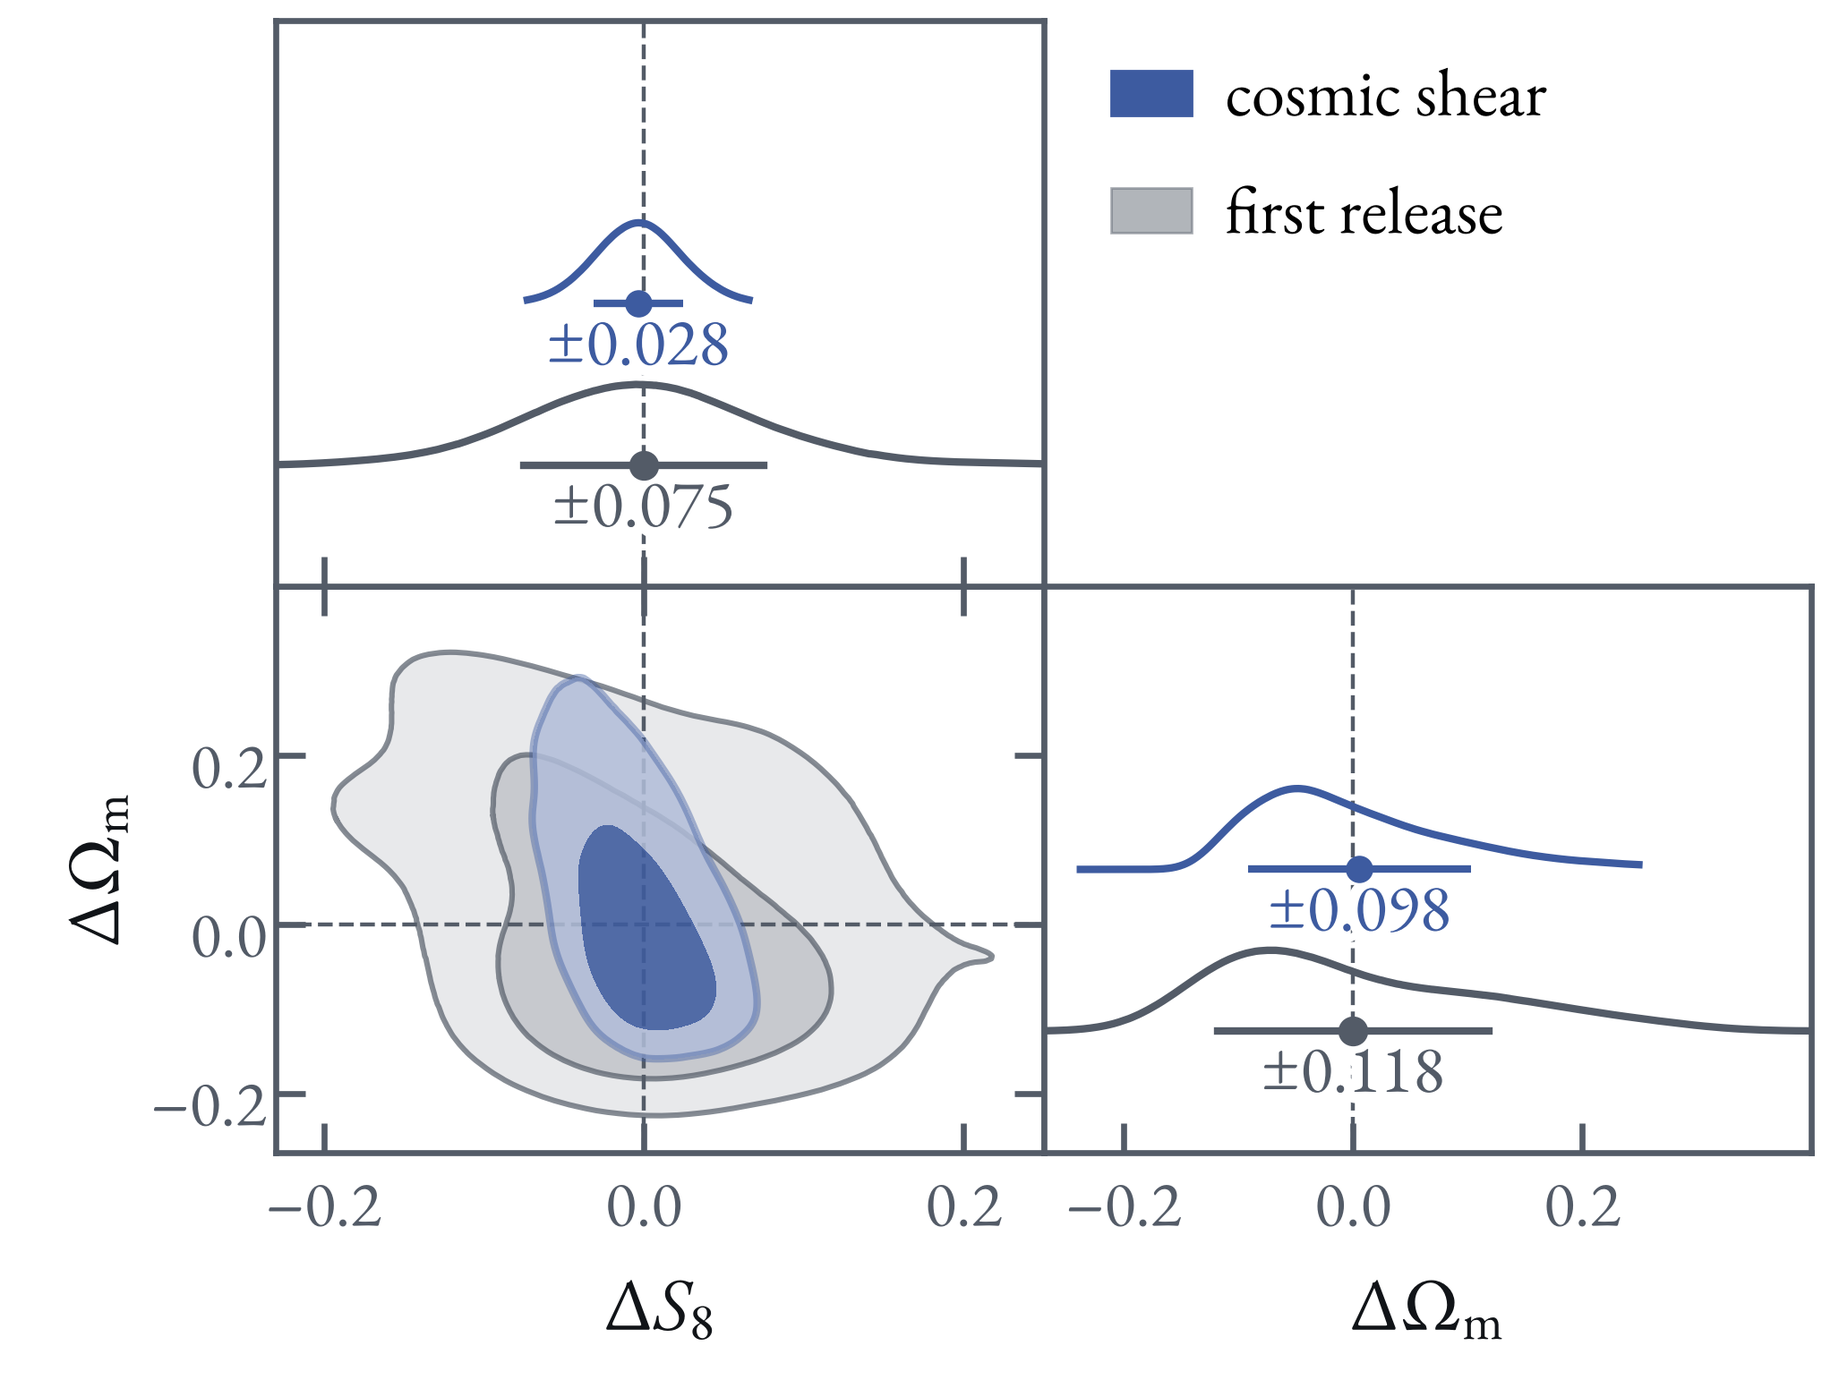
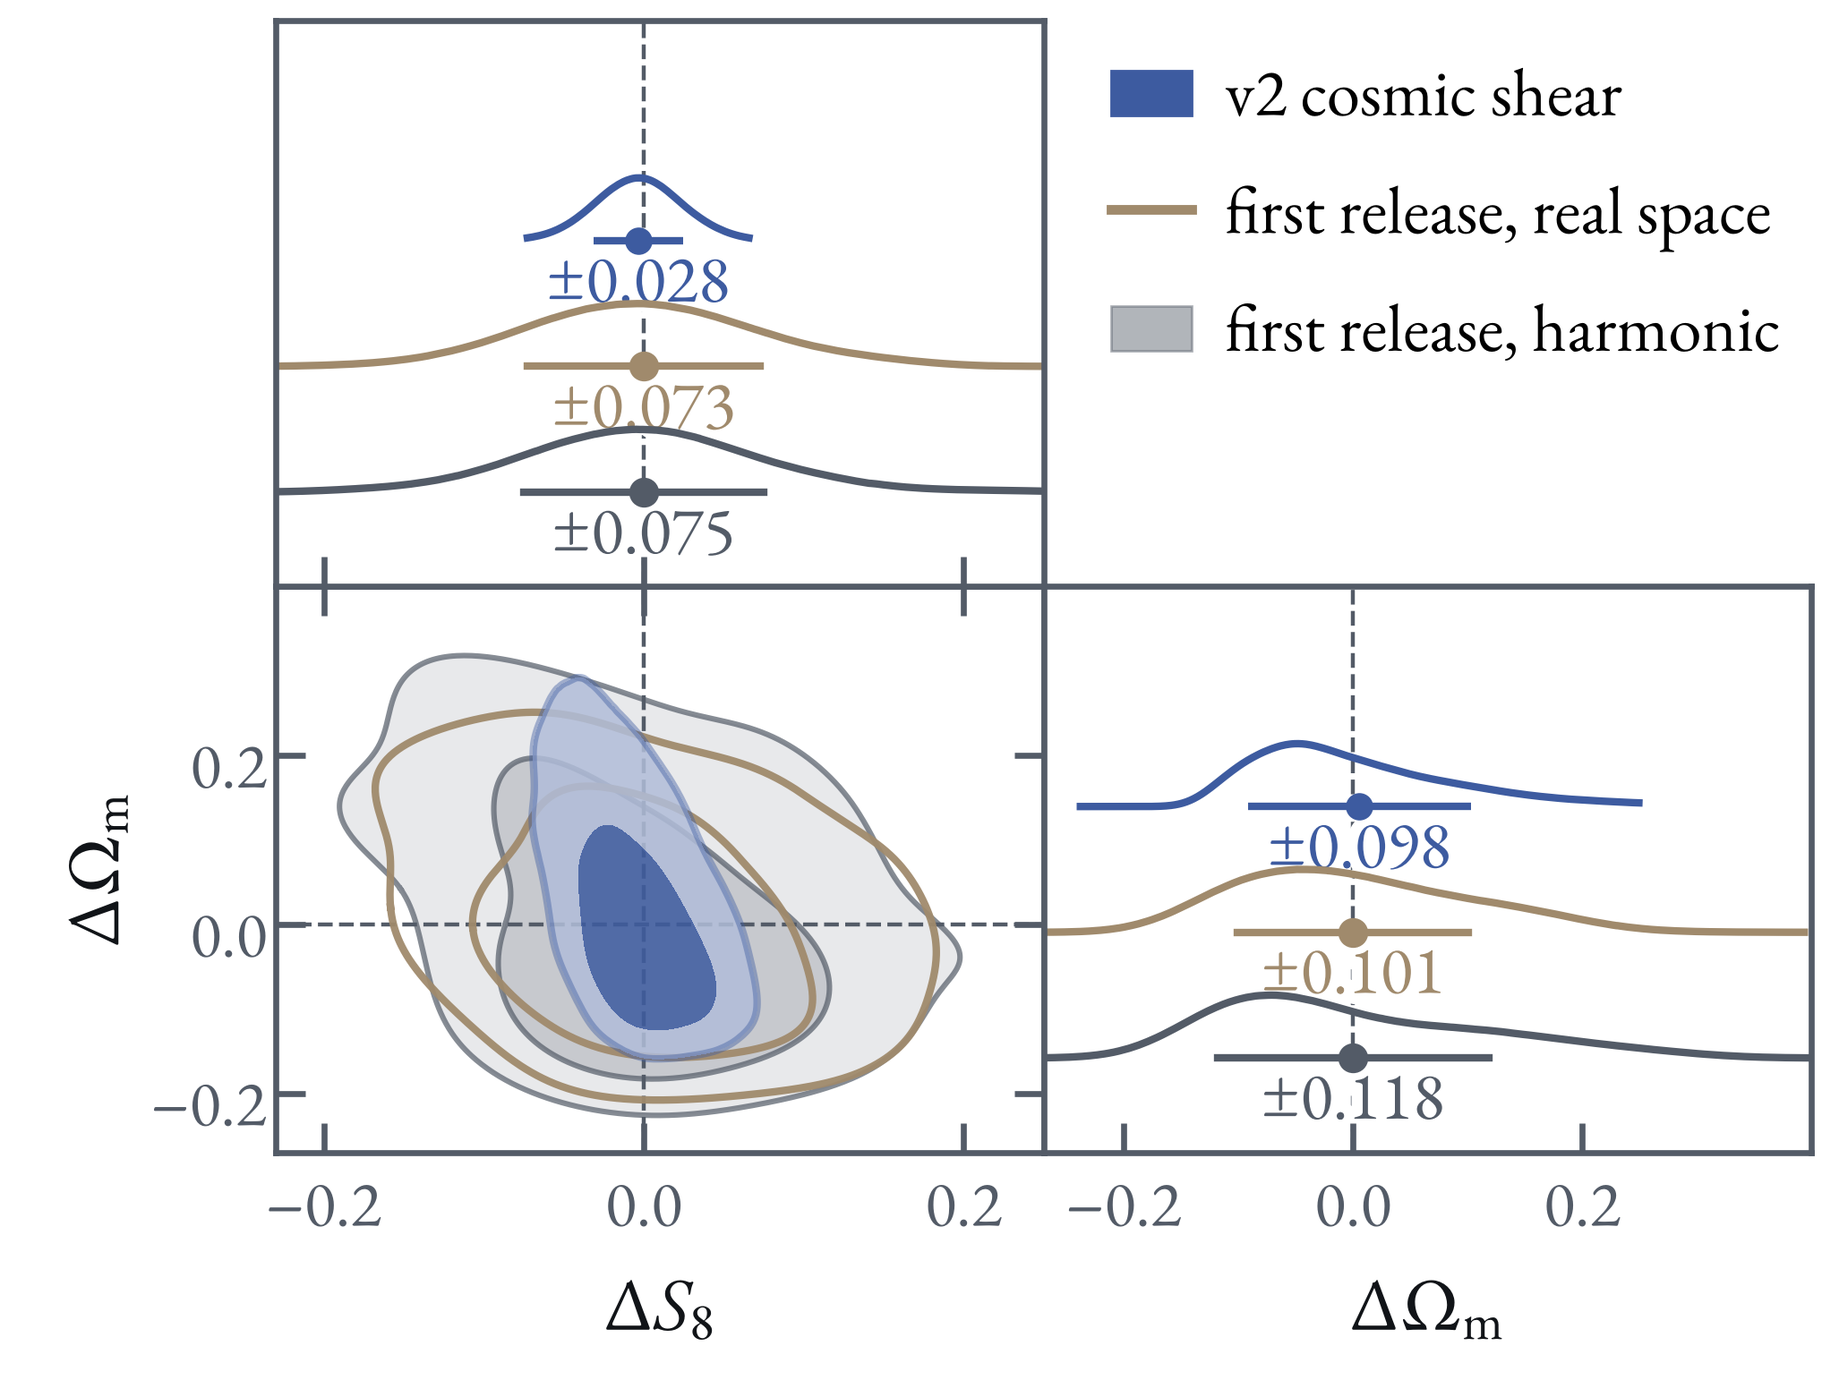
ICE unions-forecast: first release in real and harmonic space, shown alone first, contours smoothed
Claude-Session: https://claude.ai/code/session_01JK7o9F2hHekDDNjGjDNYkv

diff --git a/2611_ICE_Barcelona/slides/unions-forecast.html b/2611_ICE_Barcelona/slides/unions-forecast.html
@@ -1,8 +1,9 @@
 <section data-layout="figure-text" data-split="60">
   <h2>UNIONS 3×2pt is forecast to measure $S_8$ to 2.6 %</h2>
   <figure>
-    <img src="images/ice_unions_forecast_1.png" alt="Forecast S8 against Omega_m for UNIONS v2 tomographic cosmic shear alone, drawn over the first release's posterior in grey, which is nearly three times wider in S8">
-    <img class="fragment" data-fragment-index="1" src="images/ice_unions_forecast_2.png" alt="The 3x2pt with SPHEREx lenses drawn over both: a compact contour around the input cosmology, between Omega_m of 0.23 and 0.42">
+    <img src="images/ice_unions_forecast_0.png" alt="S8 against Omega_m for the first UNIONS release, in harmonic space and in real space: two wide contours of similar size, about 0.07 wide in S8">
+    <img class="fragment" data-fragment-index="1" src="images/ice_unions_forecast_1.png" alt="The forecast for UNIONS v2 tomographic cosmic shear drawn over them, nearly three times narrower in S8">
+    <img class="fragment" data-fragment-index="2" src="images/ice_unions_forecast_2.png" alt="The 3x2pt with SPHEREx lenses drawn over all of them: a compact contour around the input cosmology, between Omega_m of 0.23 and 0.42">
   </figure>
   <div class="text">
     <ul>
@@ -16,7 +17,7 @@
       <li><strong>With noise</strong> — twenty GLASS mocks (lognormal matter shells, lensing, intrinsic alignments, Poisson-sampled lenses, shape noise) measured with the same masked estimator and fitted with the same chain. The median width is 0.0220 on $S_8$ and 0.0386 on $\Omega_\mathrm{m}$, as forecast. The posterior means average $S_8=0.844\pm0.003$ and $\Omega_\mathrm{m}=0.321\pm0.009$ and scatter by 0.014 and 0.038; no mock is further than 1.7σ from the input. On one sky the $\Omega_\mathrm{m}$ width ranges from 0.030 to 0.060.</li>
       <li><strong>Scale cuts</strong> — shear uses $300<\ell<1600$, the cut on which the first release has B-modes consistent with zero. At $20<\ell<2000$ the 3×2pt gives 0.0211 and 0.0330, so its width changes by 3 % on $S_8$ and 13 % on $\Omega_\mathrm{m}$; the lenses already supply the large-scale information. Shear alone at that cut gives 0.0235 and 0.054, and at $100<\ell<1600$ 0.0274 and 0.070 (3×2pt 0.0214 and 0.035).</li>
       <li><strong>Limits on $S_8$</strong> — baryons first: with the feedback parameter $\log T_{\rm AGN}$ fixed, $\sigma(S_8)$ is 0.016 instead of 0.0218. Its prior is flat over the emulator's whole range (7.3–8.5) and the chain fills it, so 2.6 % is conservative there. Fixing intrinsic alignments, shear calibration, redshift shifts and magnification instead, with baryons and bias still free, gives 0.016. Most of that is source redshifts: the release's own n(z) realizations (0.006–0.012 on each bin's mean, against our 0.024) give 0.019. Halving the shear-calibration prior gives 0.021, and a Planck-width $n_s$ prior leaves the width unchanged.</li>
-      <li><strong>First release, in grey</strong> — the harmonic-space posterior of Guerrini et al. 2026, read from the paper's own vector figure (68 and 95 % contours and both marginals) and shifted so that the mean of each marginal sits at zero; it is a measurement, placed here only to compare widths. Its marginals have standard deviations 0.075 on $S_8$ and 0.118 on $\Omega_\mathrm{m}$ (means 0.878 and 0.300); the paper quotes $S_8=0.891^{+0.057}_{-0.084}$. One non-tomographic bin on 3,500 deg².</li>
+      <li><strong>First release</strong> — the posteriors in harmonic space (grey; Guerrini et al. 2026) and real space (outline; Goh et al. 2026), read from the vector figure of the harmonic-space paper (68 and 95 % contours and both marginals). Each is shifted so that the mean of each marginal sits at zero: they are measurements, placed here only to compare widths. Standard deviations of the marginals: 0.075 on $S_8$ and 0.118 on $\Omega_\mathrm{m}$ in harmonic space (means 0.878 and 0.300), 0.073 and 0.101 in real space (means 0.829 and 0.315); the papers quote $S_8=0.891^{+0.057}_{-0.084}$ and $0.831^{+0.067}_{-0.078}$. The contours are smoothed over 5° in angle about their centres, which rounds off a spike at the top of the published harmonic-space 95 % contour (sampling noise in that chain). One non-tomographic bin on 3,500 deg².</li>
       <li><strong>For scale</strong> — the DES Y3 3×2pt has $\sigma(S_8)=0.017$ and $\sigma(\Omega_\mathrm{m})=0.032$ (Abbott et al. 2022).</li>
     </ul>
     <details><summary>Inputs and their sources</summary>

diff --git a/2611_ICE_Barcelona/make_unions_forecast.py b/2611_ICE_Barcelona/make_unions_forecast.py
@@ -4,9 +4,10 @@ Reads the nested-sampling posteriors (slim_fir.npz: derived parameters and weigh
 chains on the model prediction with no noise added, run on fir (~/scratch/ufc there): v092f_first_LL_hi_s1 and
 v092f_first_3x2_hi_s1. Names without a prefix are the 25 November chains from Leonardo, mockg_* chains on noisy Gaussian
 skies and glass_* chains on GLASS mocks.
-The contours are drawn relative to the input cosmology. Under them, in grey, is the first release's harmonic-space
-posterior (unions_release_contours.json, read from the paper's figure by digitize_unions_release.py), shifted so that
-the mean of each of its marginals sits at zero: its row shows that marginal with its standard deviation. Writes images/ice_unions_forecast_<k>.png (build frames) and unions_forecast.json (mean and sigma of S8, Omega_m and
+The contours are drawn relative to the input cosmology. Under them are the first release's posteriors in harmonic
+and real space (unions_release_contours.json, read from the paper's figure by digitize_unions_release.py), each shifted
+so that the mean of each of its marginals sits at zero and with its contours smoothed in angle; a release's row shows
+its marginal with the standard deviation. The first frame shows the release alone. Writes images/ice_unions_forecast_<k>.png (build frames) and unions_forecast.json (mean and sigma of S8, Omega_m and
 sigma8 of every chain, the figure of merit 1/sqrt(det C) of (Omega_m, S8), and the wall time).
 
 Run: uv run --with "getdist @ git+https://github.com/benabed/getdist.git@113cd22a9a0d013b6f72fe734be81f260f3d3be5" \
@@ -25,8 +26,10 @@ from contour_style import D, HERE, posteriors, save, style
 
 SHEAR, JOINT = '#3D5BA0', '#A8403A'
 TRUTH = dict(Omega_m=0.3190, S8=0.8387)
-RELEASE, RELEASE_LABEL = style.MUTED, 'first release'
-LAYERS = [('v092f_first_LL_hi_s1', 'cosmic shear', SHEAR), ('v092f_first_3x2_hi_s1', '3×2pt', JOINT)]
+RELEASES = [('harmonic', 'first release, harmonic', style.MUTED, True),
+            ('real', 'first release, real space', '#A08A6C', False)]
+LAYERS = [('v092f_first_LL_hi_s1', 'v2 cosmic shear', SHEAR), ('v092f_first_3x2_hi_s1', 'v2 3×2pt', JOINT)]
+SMOOTH = 5.   # degrees: width of the smoothing of a digitized contour around its centre
 
 
 def moments(x, p):
@@ -36,42 +39,73 @@ def moments(x, p):
     return m, np.sqrt(np.trapezoid((x - m) ** 2 * p, x) / np.trapezoid(p, x))
 
 
-def add_release(fig, chains):
-    """Draw the first release under the chains: contours, and a row at the foot of each marginal panel."""
+def smooth(xy):
+    """The contour with its radius about the centre smoothed in angle, which rounds off the chain's sampling spikes."""
+    scale = np.ptp(xy, axis=0)
+    q = (xy - xy.mean(0)) / scale
+    th, r = np.arctan2(q[:, 1], q[:, 0]), np.hypot(*q.T)
+    o = np.argsort(th)
+    grid = np.linspace(-np.pi, np.pi, 720, endpoint=False)
+    r = np.interp(grid, th[o], r[o], period=2 * np.pi)
+    k = np.exp(-.5 * (np.minimum(np.arange(720), 720 - np.arange(720)) * .5 / SMOOTH) ** 2)
+    r = np.fft.irfft(np.fft.rfft(r) * np.fft.rfft(k / k.sum()), 720)
+    out = np.column_stack([r * np.cos(grid), r * np.sin(grid)]) * scale + xy.mean(0)
+    return np.vstack([out, out[:1]])
+
+
+def add_releases(fig, n_chains):
+    """Draw the first release under the chains: contours, and a row each at the foot of the marginal panels.
+
+    The first n_chains of the chains drawn are kept, so a frame can show the release alone.
+    """
     rel = json.loads((HERE / 'unions_release_contours.json').read_text())
-    mom = {n: moments(rel[n]['x'], rel[n]['p']) for n in ('S8', 'Omega_m')}
     contour, top, right = fig.axes[0], fig.axes[1], fig.axes[2]
-    for level, alpha in (('95', .13), ('68', .22)):
-        xy = np.column_stack([np.array(rel[level]['S8']) - mom['S8'][0], np.array(rel[level]['Omega_m']) - mom['Omega_m'][0]])
-        contour.fill(*xy.T, fc=RELEASE, ec='none', alpha=alpha, zorder=.5)
-        contour.plot(*xy.T, color=RELEASE, lw=2.2, alpha=.7, zorder=.6)
-    for ax, n in ((top, 'S8'), (right, 'Omega_m')):
-        size, pad = ax.texts[0].get_fontsize(), ax.texts[0].get_position()[1] % 1 - 1
-        for a in list(ax.lines) + list(ax.texts) + list(ax.collections):   # every row moves up one
-            if isinstance(a, style.plt.Line2D):
-                if a.get_transform() == ax.transData:
-                    a.set_ydata(np.asarray(a.get_ydata(), float) + 1)
+    if not n_chains:
+        for c in list(contour.collections):
+            c.remove()
+    size, pad, effects = top.texts[0].get_fontsize(), top.texts[0].get_position()[1] % 1 - 1, top.texts[0].get_path_effects()
+    for ax in (top, right):
+        for a in list(ax.lines) + list(ax.texts) + list(ax.collections):   # the chains' rows move above the release's
+            data = not isinstance(a, style.plt.Line2D) or a.get_transform() == ax.transData
+            if not n_chains and data:
+                a.remove()
+            elif isinstance(a, style.plt.Line2D) and data:
+                a.set_ydata(np.asarray(a.get_ydata(), float) + len(RELEASES))
             elif isinstance(a, style.plt.Text):
-                a.set_y(a.get_position()[1] + 1)
-            else:
-                a.set_segments([seg + [0, 1] for seg in a.get_segments()])
-        m, s = mom[n]
-        x, p = np.array(rel[n]['x']) - m, np.array(rel[n]['p'])
-        ax.plot(x, .5 * p / p.max(), color=RELEASE, lw=3., zorder=2, clip_on=True)
-        ax.plot([-s, s], [0, 0], color=RELEASE, lw=3., zorder=2)
-        ax.plot([0], [0], 'o', color=RELEASE, ms=11, zorder=2.1)
-        ax.text(0, pad, rf'$\pm {s:.3f}$', color=RELEASE, fontsize=size, ha='center', va='baseline', zorder=1.5,
-                path_effects=ax.texts[0].get_path_effects())
+                a.set_y(a.get_position()[1] + len(RELEASES))
+            elif data:
+                a.set_segments([seg + [0, len(RELEASES)] for seg in a.get_segments()])
+    stats, handles = {}, []
+    for row, (key, label, color, fill) in enumerate(RELEASES):
+        r = rel[key]
+        mom = {n: moments(r[n]['x'], r[n]['p']) for n in ('S8', 'Omega_m')}
+        for level, alpha in (('95', .13), ('68', .22)):
+            xy = smooth(np.column_stack([np.array(r[level]['S8']) - mom['S8'][0],
+                                         np.array(r[level]['Omega_m']) - mom['Omega_m'][0]]))
+            if fill:
+                contour.fill(*xy.T, fc=color, ec='none', alpha=alpha, zorder=.5)
+            contour.plot(*xy.T, color=color, lw=2.2 if fill else 3., alpha=.7 if fill else .95, zorder=.6 + .1 * row)
+        for ax, n in ((top, 'S8'), (right, 'Omega_m')):
+            m, s = mom[n]
+            x, p = np.array(r[n]['x']) - m, np.array(r[n]['p'])
+            ax.plot(x, row + .5 * p / p.max(), color=color, lw=3., zorder=2)
+            ax.plot([-s, s], [row, row], color=color, lw=3., zorder=2)
+            ax.plot([0], [row], 'o', color=color, ms=11, zorder=2.1)
+            ax.text(0, row + pad, rf'$\pm {s:.3f}$', color=color, fontsize=size, ha='center', va='baseline', zorder=1.5,
+                    path_effects=effects)
+        handles.append(style.plt.matplotlib.patches.Patch(fc=color, ec=color, alpha=.45) if fill else
+                       style.plt.Line2D([], [], color=color, lw=3.9))
+        stats[key] = {n: {'mean': round(float(m), 4), 'sigma': round(float(s), 4)} for n, (m, s) in mom.items()}
     old = fig.legends[0]
-    handles = old.legend_handles + [style.plt.matplotlib.patches.Patch(fc=RELEASE, ec=RELEASE, alpha=.45)]
-    labels = [t.get_text() for t in old.get_texts()] + [RELEASE_LABEL]
-    pos = contour.get_position()
+    handles = (old.legend_handles if n_chains else []) + handles[::-1]
+    labels = ([t.get_text() for t in old.get_texts()] if n_chains else []) + [x[1] for x in RELEASES][::-1]
     fig.legends.clear()
     leg = fig.legend(handles, labels, frameon=False, fontsize=size, handlelength=1.2, handletextpad=.5, labelspacing=.45,
-                     borderaxespad=0, alignment='left', loc='upper left', bbox_to_anchor=(pos.x1 + .022, top.get_position().y1))
+                     borderaxespad=0, alignment='left', loc='upper left',
+                     bbox_to_anchor=(contour.get_position().x1 + .022, top.get_position().y1))
     for h in leg.get_patches():
         h.set_height(18)
-    return {n: {'mean': round(float(m), 4), 'sigma': round(float(s), 4)} for n, (m, s) in mom.items()}
+    return stats
 
 
 def main():
@@ -79,11 +113,11 @@ def main():
     p.add_argument('--src', required=True)
     z = np.load(p.parse_args().src)
     chains = [dr1.chain(z, *layer) for layer in LAYERS]
-    for k in (1, 2):
-        fig = posteriors(chains[:k], D, center=TRUTH, value=False, rows=3,
+    for k in (0, 1, 2):
+        fig = posteriors(chains[:max(k, 1)], D, center=TRUTH, value=False, rows=len(RELEASES) + 2,
                          lims={'Omega_m': (-.27, .40), 'S8': (-.23, .25)},
                          ticks={'Omega_m': [-.2, 0, .2], 'S8': [-.2, 0, .2]})
-        release = add_release(fig, chains[:k])
+        release = add_releases(fig, k)
         save(fig, f'ice_unions_forecast_{k}.png')
     names = sorted({k.split('|')[0] for k in z.files})
     (HERE / 'unions_forecast.json').write_text(

diff --git a/2611_ICE_Barcelona/digitize_unions_release.py b/2611_ICE_Barcelona/digitize_unions_release.py
@@ -1,8 +1,9 @@
-"""The first UNIONS release's harmonic-space posterior, read from the paper's own vector figure.
+"""The first UNIONS release's posteriors in harmonic and real space, read from the paper's own vector figure.
 
 Guerrini et al. 2026 (arXiv:2605.13543), Figures/cosmological_constraints_cl_vs_xi/contours_s8_omegam_cell.pdf in the
-arXiv source: the 68 and 95 % contours of "UNIONS C_ell (This work)" in (Omega_m, S8) and its two marginal densities,
-as the paths GetDist drew them. Axes are calibrated on the figure's tick marks. Writes unions_release_contours.json.
+arXiv source: the 68 and 95 % contours in (Omega_m, S8) and the two marginal densities of "UNIONS C_ell (This work)"
+and of "UNIONS xi_pm (Goh et al., 2026)", as the paths GetDist drew them, with the curves flattened. Axes are
+calibrated on the figure's tick marks. Writes unions_release_contours.json, keyed harmonic and real.
 
 Run: curl -sL https://arxiv.org/e-print/2605.13543 | tar -xz -C <dir>
      uv run --with pymupdf python 2611_ICE_Barcelona/digitize_unions_release.py <dir>/Figures/cosmological_constraints_cl_vs_xi/contours_s8_omegam_cell.pdf
@@ -17,41 +18,43 @@ import pymupdf
 OM = lambda x: .2 + (x - 265.7) / (460.4 - 265.7) * .2            # x of the left column
 S8_Y = lambda y: .6 + (y - 1275.4) / (744.4 - 1275.4) * .5        # y of the contour panel
 S8_X = lambda x: .6 + (x - 808.8) / (1341.7 - 808.8) * .5         # x of the S8 marginal
-CRIMSON = (.863, .078, .235)
+COLORS = {'harmonic': (.863, .078, .235), 'real': (1., .647, 0.)}  # the lines; fills come in the same order
+T = np.linspace(0, 1, 9)[1:, None]
 
 
-def points(drawing):
+def path(drawing):
     """The drawing's longest subpath: a filled 95 % band is the outer contour and the 68 % one as its hole."""
     paths, end = [], None
     for item in drawing['items']:
-        pts = [(p.x, p.y) for p in item[1:] if isinstance(p, pymupdf.Point)]
-        if end is None or np.hypot(pts[0][0] - end[0], pts[0][1] - end[1]) > 1e-3:
-            paths.append([])
-        paths[-1] += pts
-        end = pts[-1]
-    return np.array(max(paths, key=lambda q: np.ptp(np.array(q), axis=0).prod()))
+        p = np.array([(q.x, q.y) for q in item[1:]])
+        if end is None or np.hypot(*(p[0] - end)) > 1e-3:
+            paths.append([p[0]])
+        if item[0] == 'c':
+            paths[-1] += list((1 - T) ** 3 * p[0] + 3 * (1 - T) ** 2 * T * p[1] + 3 * (1 - T) * T ** 2 * p[2] + T ** 3 * p[3])
+        else:
+            paths[-1].append(p[-1])
+        end = p[-1]
+    return max((np.array(q) for q in paths), key=lambda q: np.ptp(q, axis=0).prod())
 
 
 def main():
-    page = pymupdf.open(sys.argv[1])[0]
-    d = page.get_drawings()
+    d = pymupdf.open(sys.argv[1])[0].get_drawings()
     fills = [x for x in d if x['type'] == 'f' and len(x['items']) > 100]
-    lines = [x for x in d if x['type'] == 's' and x.get('color') and np.allclose(x['color'], CRIMSON, atol=.01)
-             and len(x['items']) > 100]
     out = {}
-    for name, f in (('95', fills[0]), ('68', fills[1])):          # the first two fills are the C_ell contours
-        p = points(f)
-        out[name] = {'Omega_m': OM(p[:, 0]).round(4).tolist(), 'S8': S8_Y(p[:, 1]).round(4).tolist()}
-    for x in lines:
-        r = x['rect']
-        p = points(x)
-        if r.y1 < 670:                                            # top left: Omega_m
-            out['Omega_m'] = {'x': OM(p[:, 0]).round(4).tolist(), 'p': (665.1 - p[:, 1]).round(2).tolist()}
-        elif r.x0 > 750:                                          # bottom right: S8
-            out['S8'] = {'x': S8_X(p[:, 0]).round(4).tolist(), 'p': (1323.1 - p[:, 1]).round(2).tolist()}
+    for k, (name, color) in enumerate(COLORS.items()):
+        o = out[name] = {}
+        for level, f in zip(('95', '68'), fills[2 * k:2 * k + 2]):
+            p = path(f)
+            o[level] = {'Omega_m': OM(p[:, 0]).round(4).tolist(), 'S8': S8_Y(p[:, 1]).round(4).tolist()}
+        for x in d:
+            if x['type'] == 's' and x.get('color') and np.allclose(x['color'], color, atol=.01) and len(x['items']) > 100:
+                p, r = path(x), x['rect']
+                if r.y1 < 670:                                    # top left: Omega_m
+                    o['Omega_m'] = {'x': OM(p[:, 0]).round(4).tolist(), 'p': (665.1 - p[:, 1]).round(2).tolist()}
+                elif r.x0 > 750:                                  # bottom right: S8
+                    o['S8'] = {'x': S8_X(p[:, 0]).round(4).tolist(), 'p': (1323.1 - p[:, 1]).round(2).tolist()}
+        print(name, {a: {b: (min(c), max(c), len(c)) for b, c in v.items()} for a, v in o.items()})
     Path(__file__).with_name('unions_release_contours.json').write_text(json.dumps(out) + '\n')
-    for k, v in out.items():
-        print(k, {a: (min(b), max(b), len(b)) for a, b in v.items()})
 
 
 if __name__ == '__main__':
